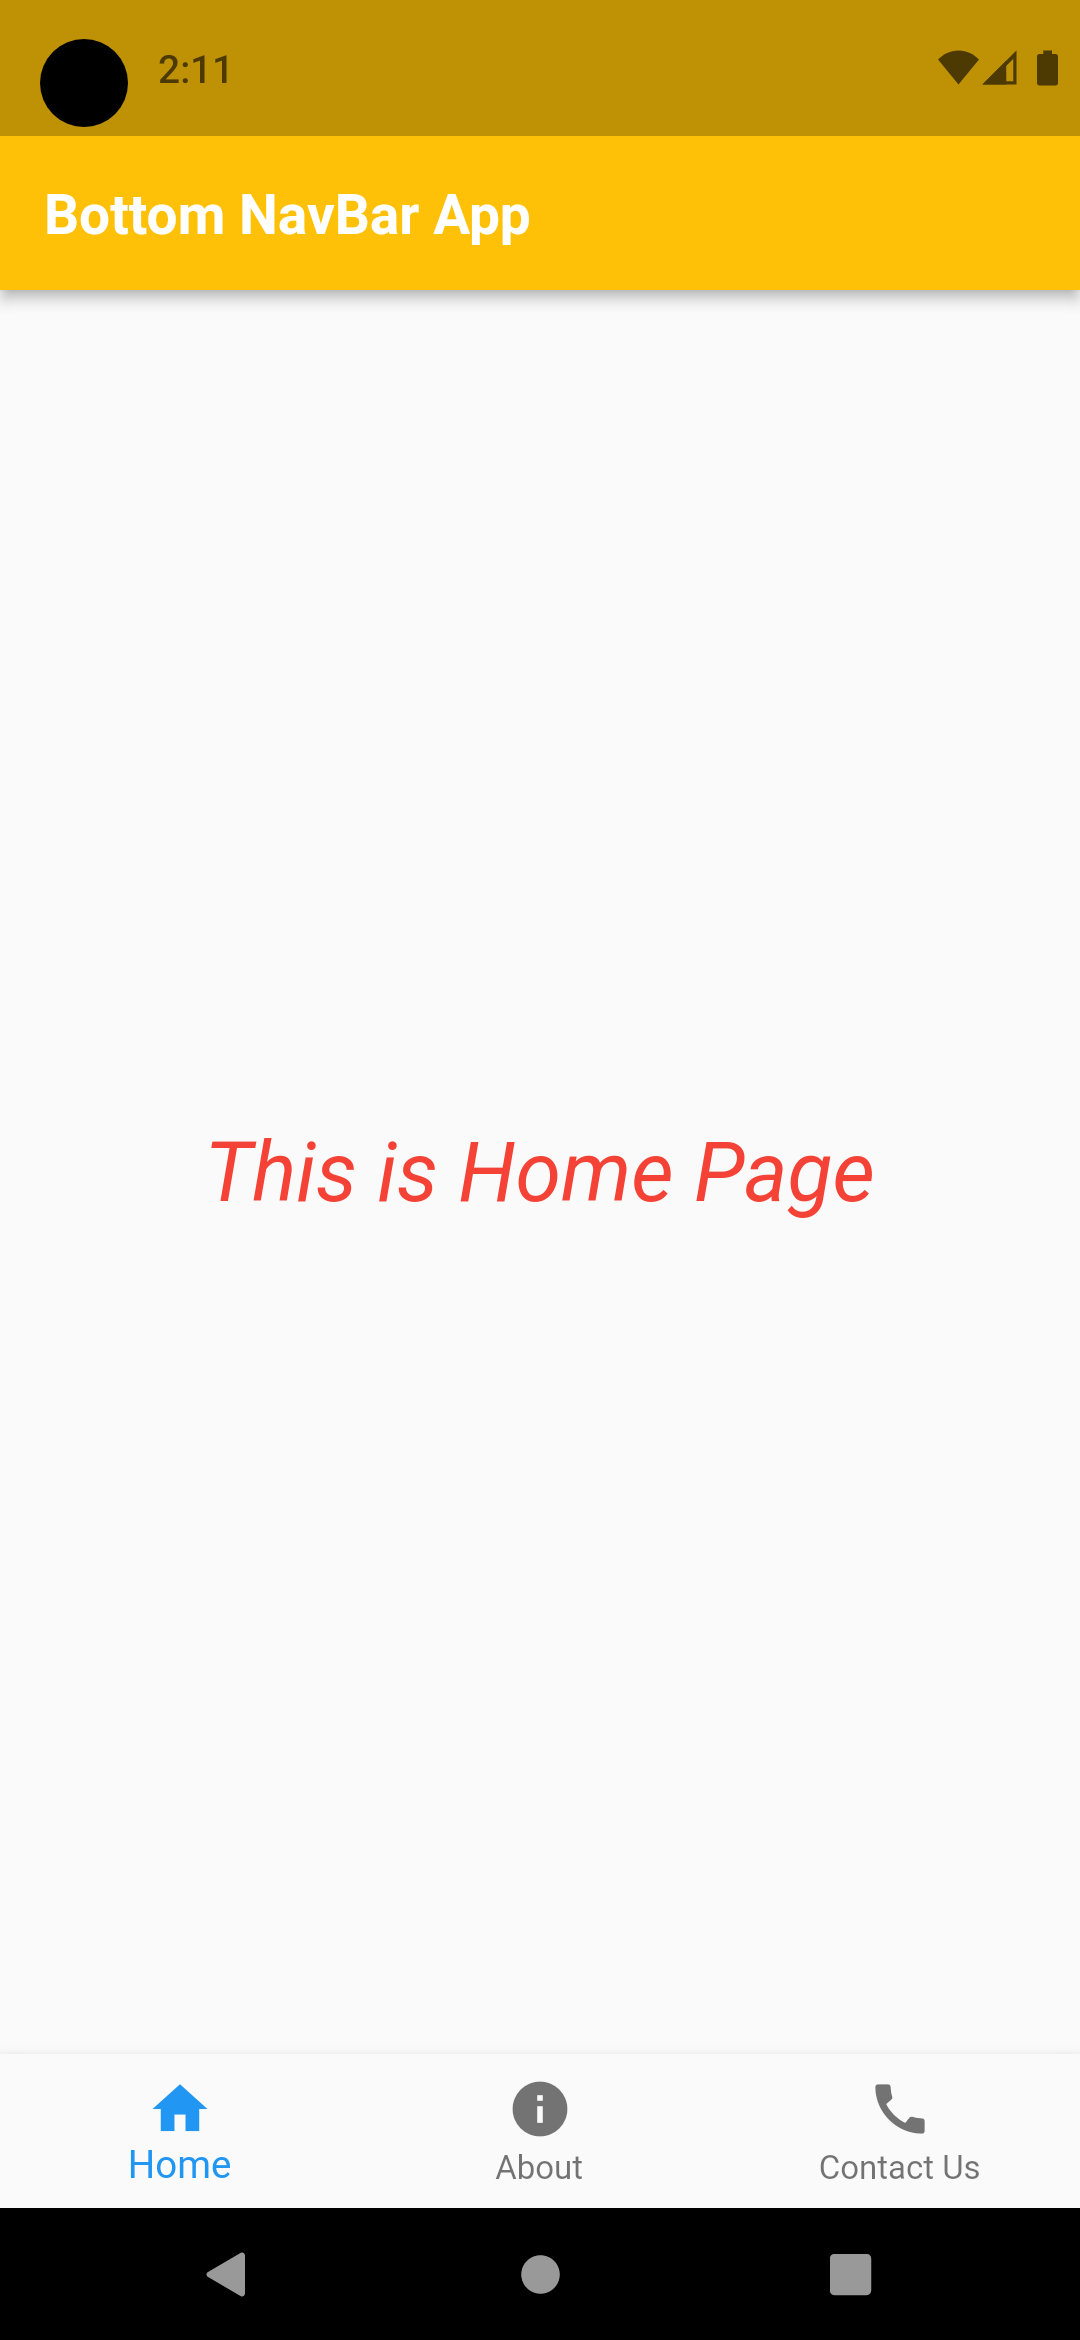
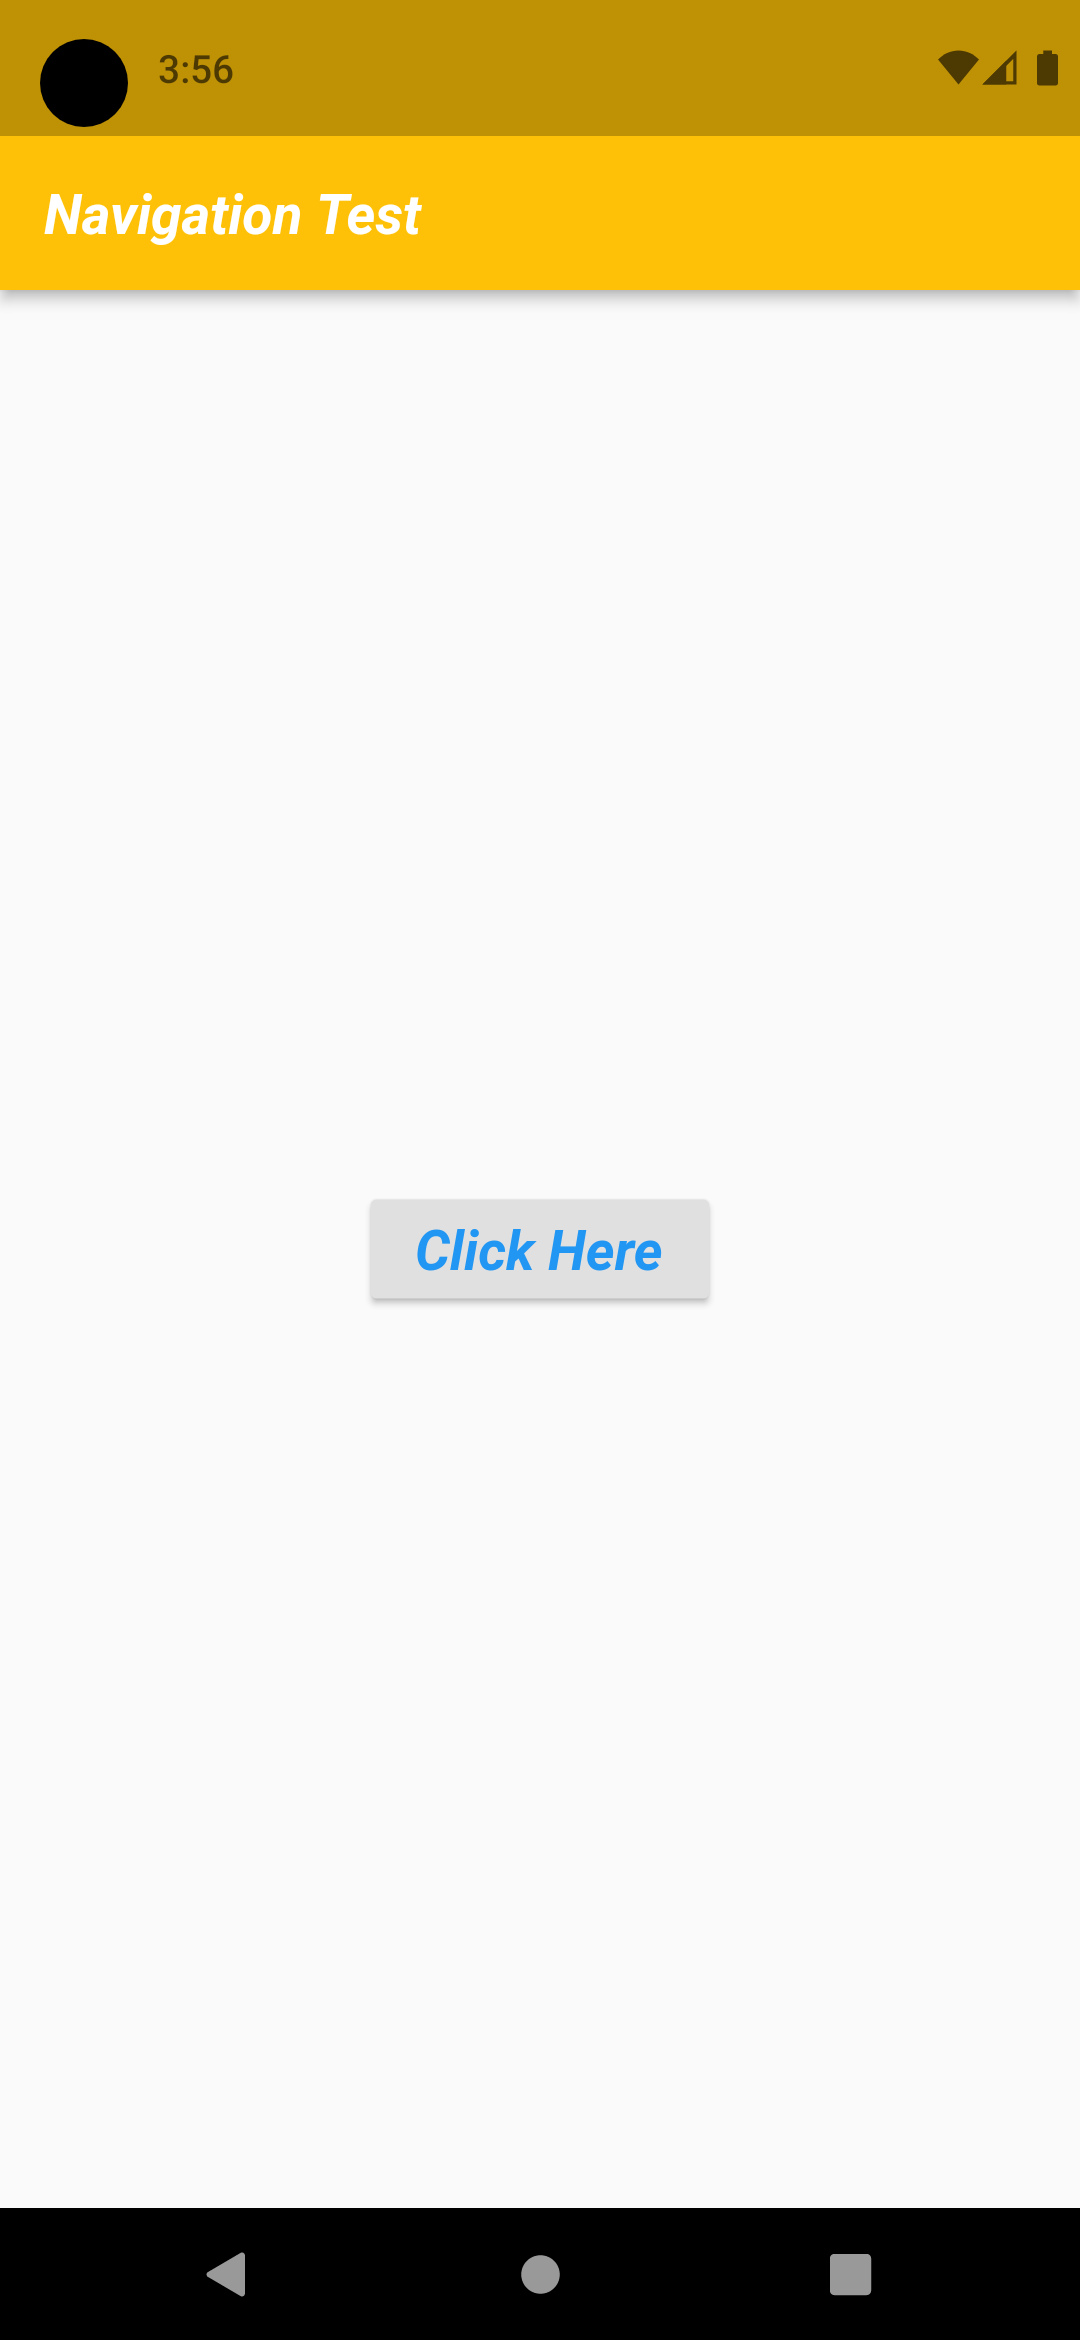
RaisedButton(TextButton), Navigator.push, MaterialPageRoute, FloatingActionButton, MainAxisAlignment, Navigator.pop

diff --git a/lib/main.dart b/lib/main.dart
@@ -3,56 +3,55 @@ import 'package:flutter_dev_practice/screens/sample_pages.dart';
 
 void main() {
   runApp(
-    BottomNavBar(),
+    HomeScreen(),
   );
 }
 
-class BottomNavBar extends StatelessWidget {
+class HomeScreen extends StatelessWidget {
   @override
   Widget build(BuildContext context) {
     return MaterialApp(
       debugShowCheckedModeBanner: false,
-      title: "Bottom NavBar",
-      home: BottomMenu(),
+      title: "Page Navigation",
+      home: NavigationTest(),
     );
   }
 }
 
-class BottomMenu extends StatefulWidget {
+class NavigationTest extends StatefulWidget {
   @override
-  _BottomMenuState createState() => _BottomMenuState();
+  _NavigationTestState createState() => _NavigationTestState();
 }
 
-class _BottomMenuState extends State<BottomMenu> {
-  var _page = [HomePage(), AboutPage(), ContactPage()];
-  int _selectedItem = 0;
+class _NavigationTestState extends State<NavigationTest> {
   @override
   Widget build(BuildContext context) {
     return Scaffold(
       appBar: AppBar(
-        backgroundColor: Colors.amber,
-        title: const Text(
-          "Bottom NavBar App",
+        backgroundColor: Colors.amber.shade500,
+        title: Text(
+          "Navigation Test",
           style: TextStyle(
+            fontStyle: FontStyle.italic,
             fontWeight: FontWeight.bold,
           ),
         ),
       ),
       body: Center(
-        child: _page[_selectedItem],
-      ),
-      bottomNavigationBar: BottomNavigationBar(
-        items: <BottomNavigationBarItem>[
-          BottomNavigationBarItem(icon: Icon(Icons.home), label: "Home",),
-          BottomNavigationBarItem(icon: Icon(Icons.info), label: "About"),
-          BottomNavigationBarItem(icon: Icon(Icons.call), label: "Contact Us"),
-        ],
-        currentIndex: _selectedItem,
-        onTap: (setValue) {
-          setState(() {
-            _selectedItem = setValue;
-          });
-        },
+        child: RaisedButton(
+          child: Text(
+            "Click Here",
+            style: TextStyle(
+                color: Colors.blue,
+                fontWeight: FontWeight.bold,
+                fontStyle: FontStyle.italic,
+                fontSize: 20.0),
+          ),
+          onPressed: () {
+            Navigator.push(
+                context, MaterialPageRoute(builder: (context) => AppPages()));
+          },
+        ),
       ),
     );
   }

diff --git a/lib/screens/sample_pages.dart b/lib/screens/sample_pages.dart
@@ -1,53 +1,30 @@
 import 'package:flutter/material.dart';
 
-class HomePage extends StatelessWidget {
+class AppPages extends StatelessWidget {
   @override
   Widget build(BuildContext context) {
     return Scaffold(
-      body: Center(
-        child: Text(
-          "This is Home Page",
-          style: TextStyle(
-            fontSize: 30.0,
-            fontStyle: FontStyle.italic,
-            color: Colors.red,
-          ),
-        ),
+      appBar: AppBar(
+        title: Text("Redirected on ...."),
       ),
-    );
-  }
-}
-
-class AboutPage extends StatelessWidget {
-  @override
-  Widget build(BuildContext context) {
-    return Scaffold(
       body: Center(
-        child: Text(
-          "This is About Page",
-          style: TextStyle(
-            fontSize: 30.0,
-            fontStyle: FontStyle.italic,
-            color: Colors.red,
-          ),
-        ),
-      ),
-    );
-  }
-}
-
-class ContactPage extends StatelessWidget {
-  @override
-  Widget build(BuildContext context) {
-    return Scaffold(
-      body: Center(
-        child: Text(
-          "This is Contact Page",
-          style: TextStyle(
-            fontSize: 30.0,
-            fontStyle: FontStyle.italic,
-            color: Colors.red,
-          ),
+        child: Column(
+          mainAxisAlignment: MainAxisAlignment.center,
+          children: <Widget>[
+            Text(
+              "First Page",
+              style: TextStyle(
+                color: Colors.orange,
+                fontSize: 30.0,
+              ),
+            ),
+            FloatingActionButton(
+              child: Icon(Icons.arrow_back_rounded),
+              onPressed: () {
+                Navigator.pop(context);
+              },
+            )
+          ],
         ),
       ),
     );

diff --git a/README.md b/README.md
@@ -1,10 +1,8 @@
-### BottomNavigationBar, BottomNavigationBarItem, onTap, setState
+## Concepts :
+### --> RaisedButton(TextButton), Navigator.push, MaterialPageRoute, FloatingActionButton, MainAxisAlignment, Navigator.pop
 <p align="center">
   <img src="ss1.png" width="320" height="480" title="hover text">
 </p>
 <p align="center">
   <img src="ss2.png" width="320" height="480" title="hover text">
-</p>
-<p align="center">
-  <img src="ss3.png" width="320" height="480" title="hover text">
 </p>
